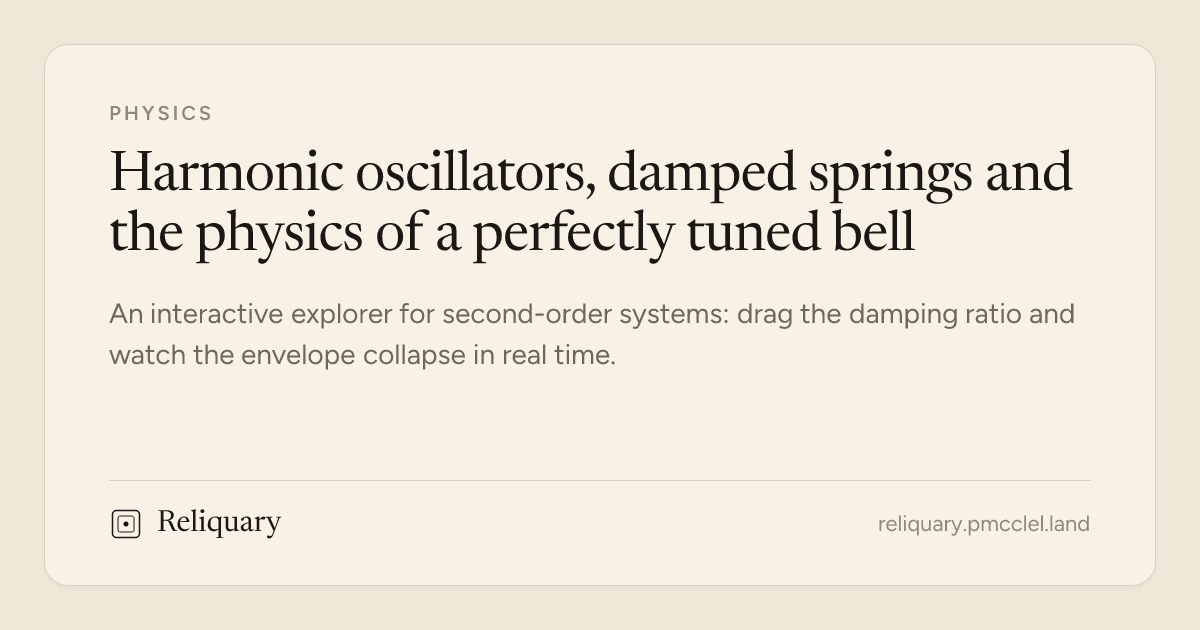
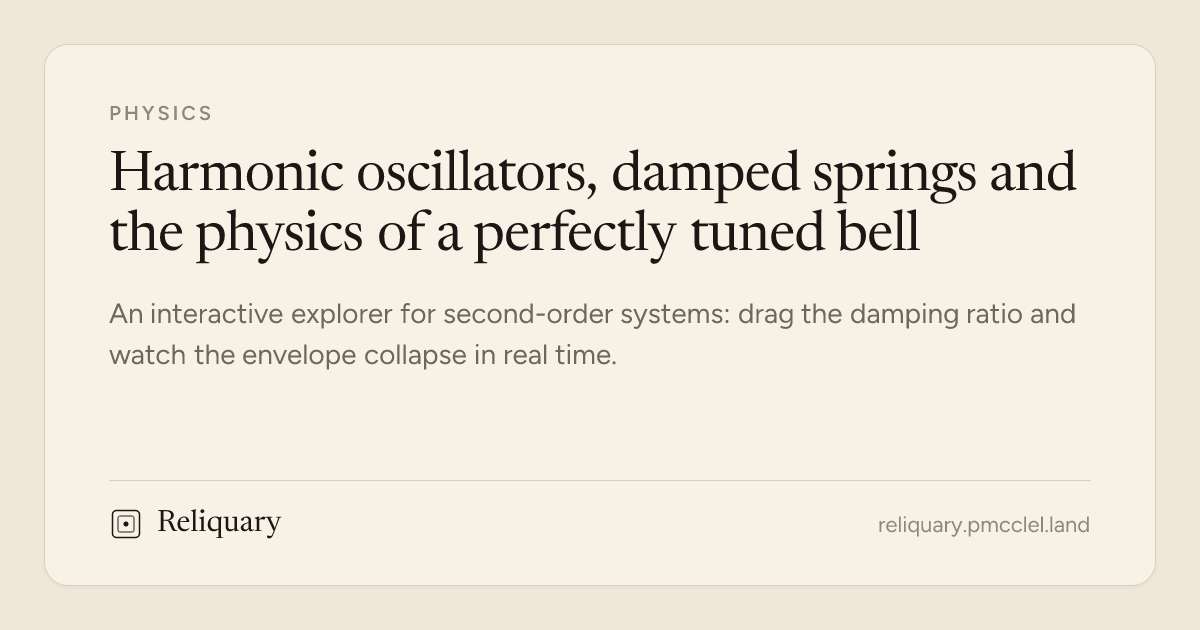
og: satori 0.15 + yoga-wasm-web (Workers-safe init); keep fallback reason codes

diff --git a/src/lib/og/render.server.ts b/src/lib/og/render.server.ts
@@ -3,7 +3,8 @@
  * SVG) and resvg (SVG → PNG). Pure of request context; callers decide what is
  * safe to show (see `/api/og/$id`).
  */
-import satori, { init as initSatori } from "satori/standalone";
+import satori, { init as initSatori } from "satori/wasm";
+import initYoga from "yoga-wasm-web";
 import { initWasm, Resvg } from "@resvg/resvg-wasm";
 import { OG_HEIGHT, OG_WIDTH } from "@/lib/reliquary/og";
 import { figtree400, figtree600, newsreader400 } from "./fonts.generated";
@@ -46,7 +47,10 @@ let wasmReady: Promise<void> | null = null;
  */
 export function ensureOgWasm(load: () => Promise<{ yoga: WasmInput; resvg: WasmInput }>): Promise<void> {
   wasmReady ??= load()
-    .then(({ yoga, resvg }) => Promise.all([initSatori(yoga), initWasm(resvg)]))
+    .then(async ({ yoga, resvg }) => {
+      initSatori(await initYoga(yoga as WebAssembly.Module));
+      await initWasm(resvg);
+    })
     .then(() => undefined)
     .catch((err) => {
       wasmReady = null;
@@ -87,9 +91,8 @@ export function relicCardTree(card: RelicCard): Node {
     h(
       "div",
       {
-        // satori sizes content-box: 1112×542 outer = 984×440 + padding + border.
-        width: OG_WIDTH - 88 - 128 - 2,
-        height: OG_HEIGHT - 88 - 100 - 2,
+        width: OG_WIDTH - 88,
+        height: OG_HEIGHT - 88,
         overflow: "hidden",
         display: "flex",
         flexDirection: "column",

diff --git a/src/routes/api/og.$id.ts b/src/routes/api/og.$id.ts
@@ -53,7 +53,7 @@ export const Route = createFileRoute("/api/og/$id")({
           await ensureOgWasm(async () => {
             // unwasm turns `?module` into a WebAssembly.Module on Workers.
             const [yoga, resvg] = await Promise.all([
-              import("satori/layout.wasm?module"),
+              import("yoga-wasm-web/dist/yoga.wasm?module"),
               import("@resvg/resvg-wasm/index_bg.wasm?module"),
             ]);
             return { yoga: yoga.default, resvg: resvg.default };
@@ -80,7 +80,7 @@ export const Route = createFileRoute("/api/og/$id")({
           return res;
         } catch (err) {
           console.error("[og] render failed", err);
-          return fallback(request, `render-error ${String(err).slice(0, 160).replace(/[^\x20-\x7e]/g, "")}`);
+          return fallback(request, "render-error");
         }
       },
     },
